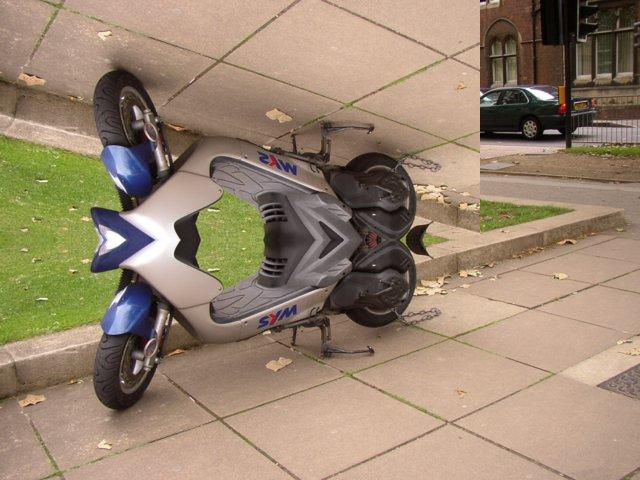
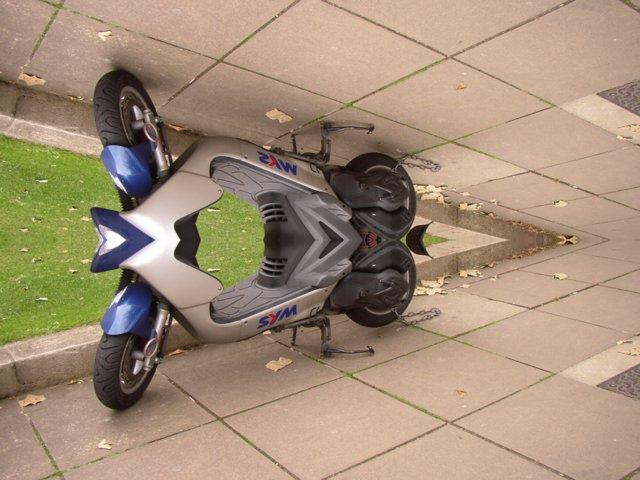
fixed the bug :)

Changed region(s): [[0.75, 0.0, 1.0, 0.5]]

diff --git a/Picture.java b/Picture.java
@@ -371,10 +371,10 @@ public class Picture
 public void vertMirror(){
 //Create a 2D array of pixels
 Pixel[][] pixels = this.getPixels2D();
-//loop through columns of the array
-for(int i=0; i<pixels.length;i++){
-//nest loop through rows of the array half way through
-for(int j=0; j<pixels[i].length/2;j++){
+//loop through half of rows
+for(int j=0; j<pixels.length/2;j++){
+//loop through columns 
+for(int i=0; i<pixels[0].length;i++){
 //Create a top pixel variable which is current column and current row
 Pixel top = pixels[j][i];
 //Create a bottom pixel variable which is current column and 
